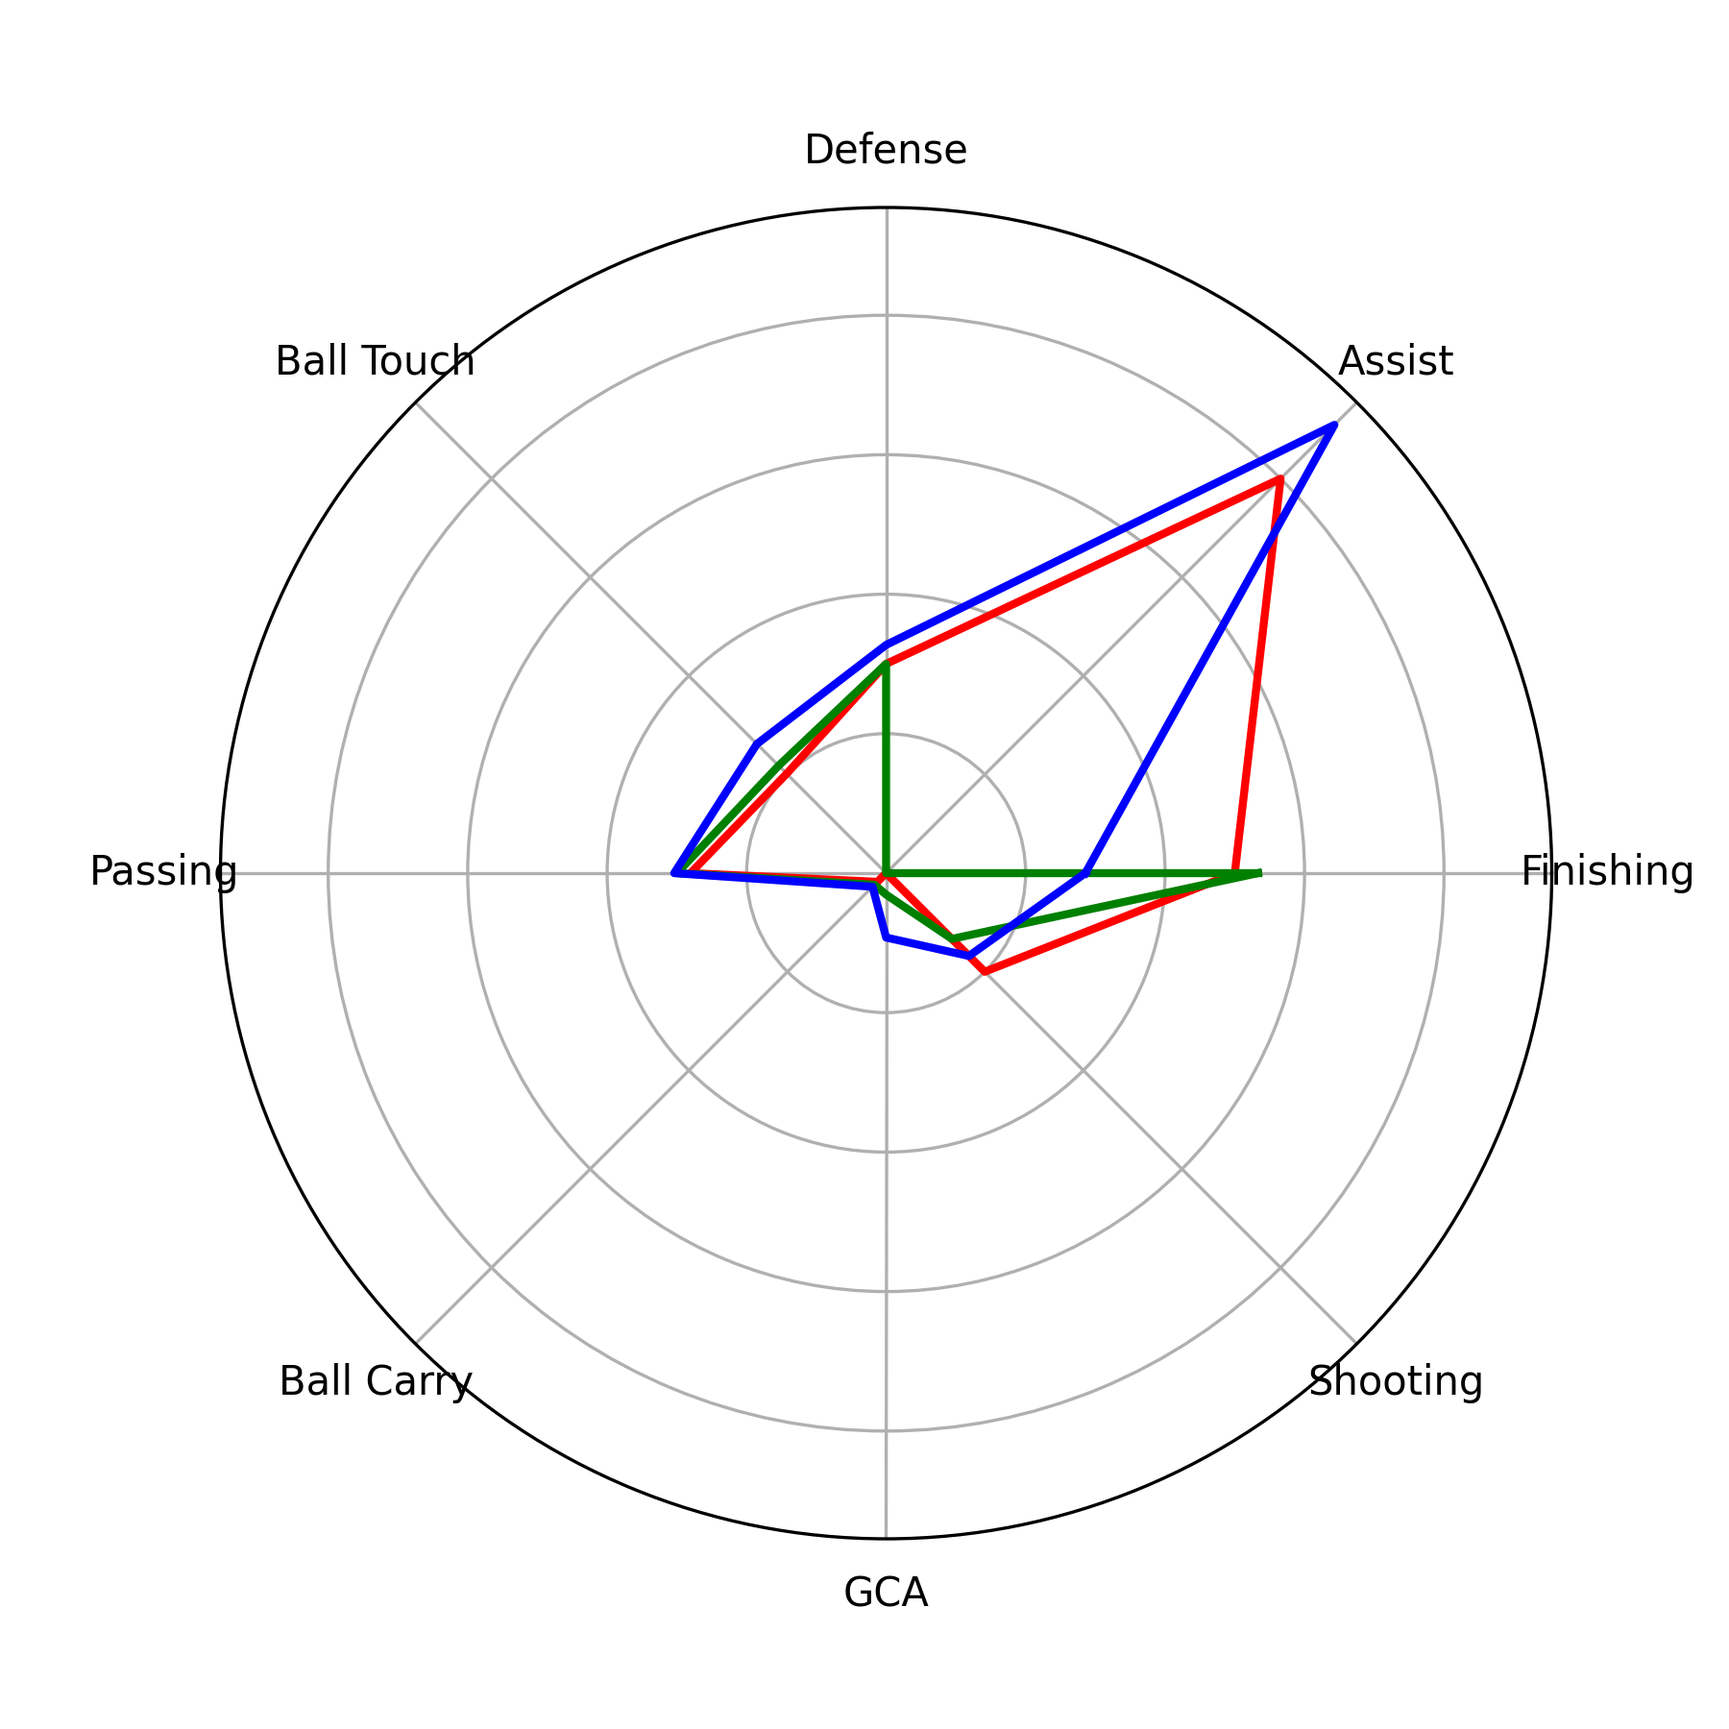
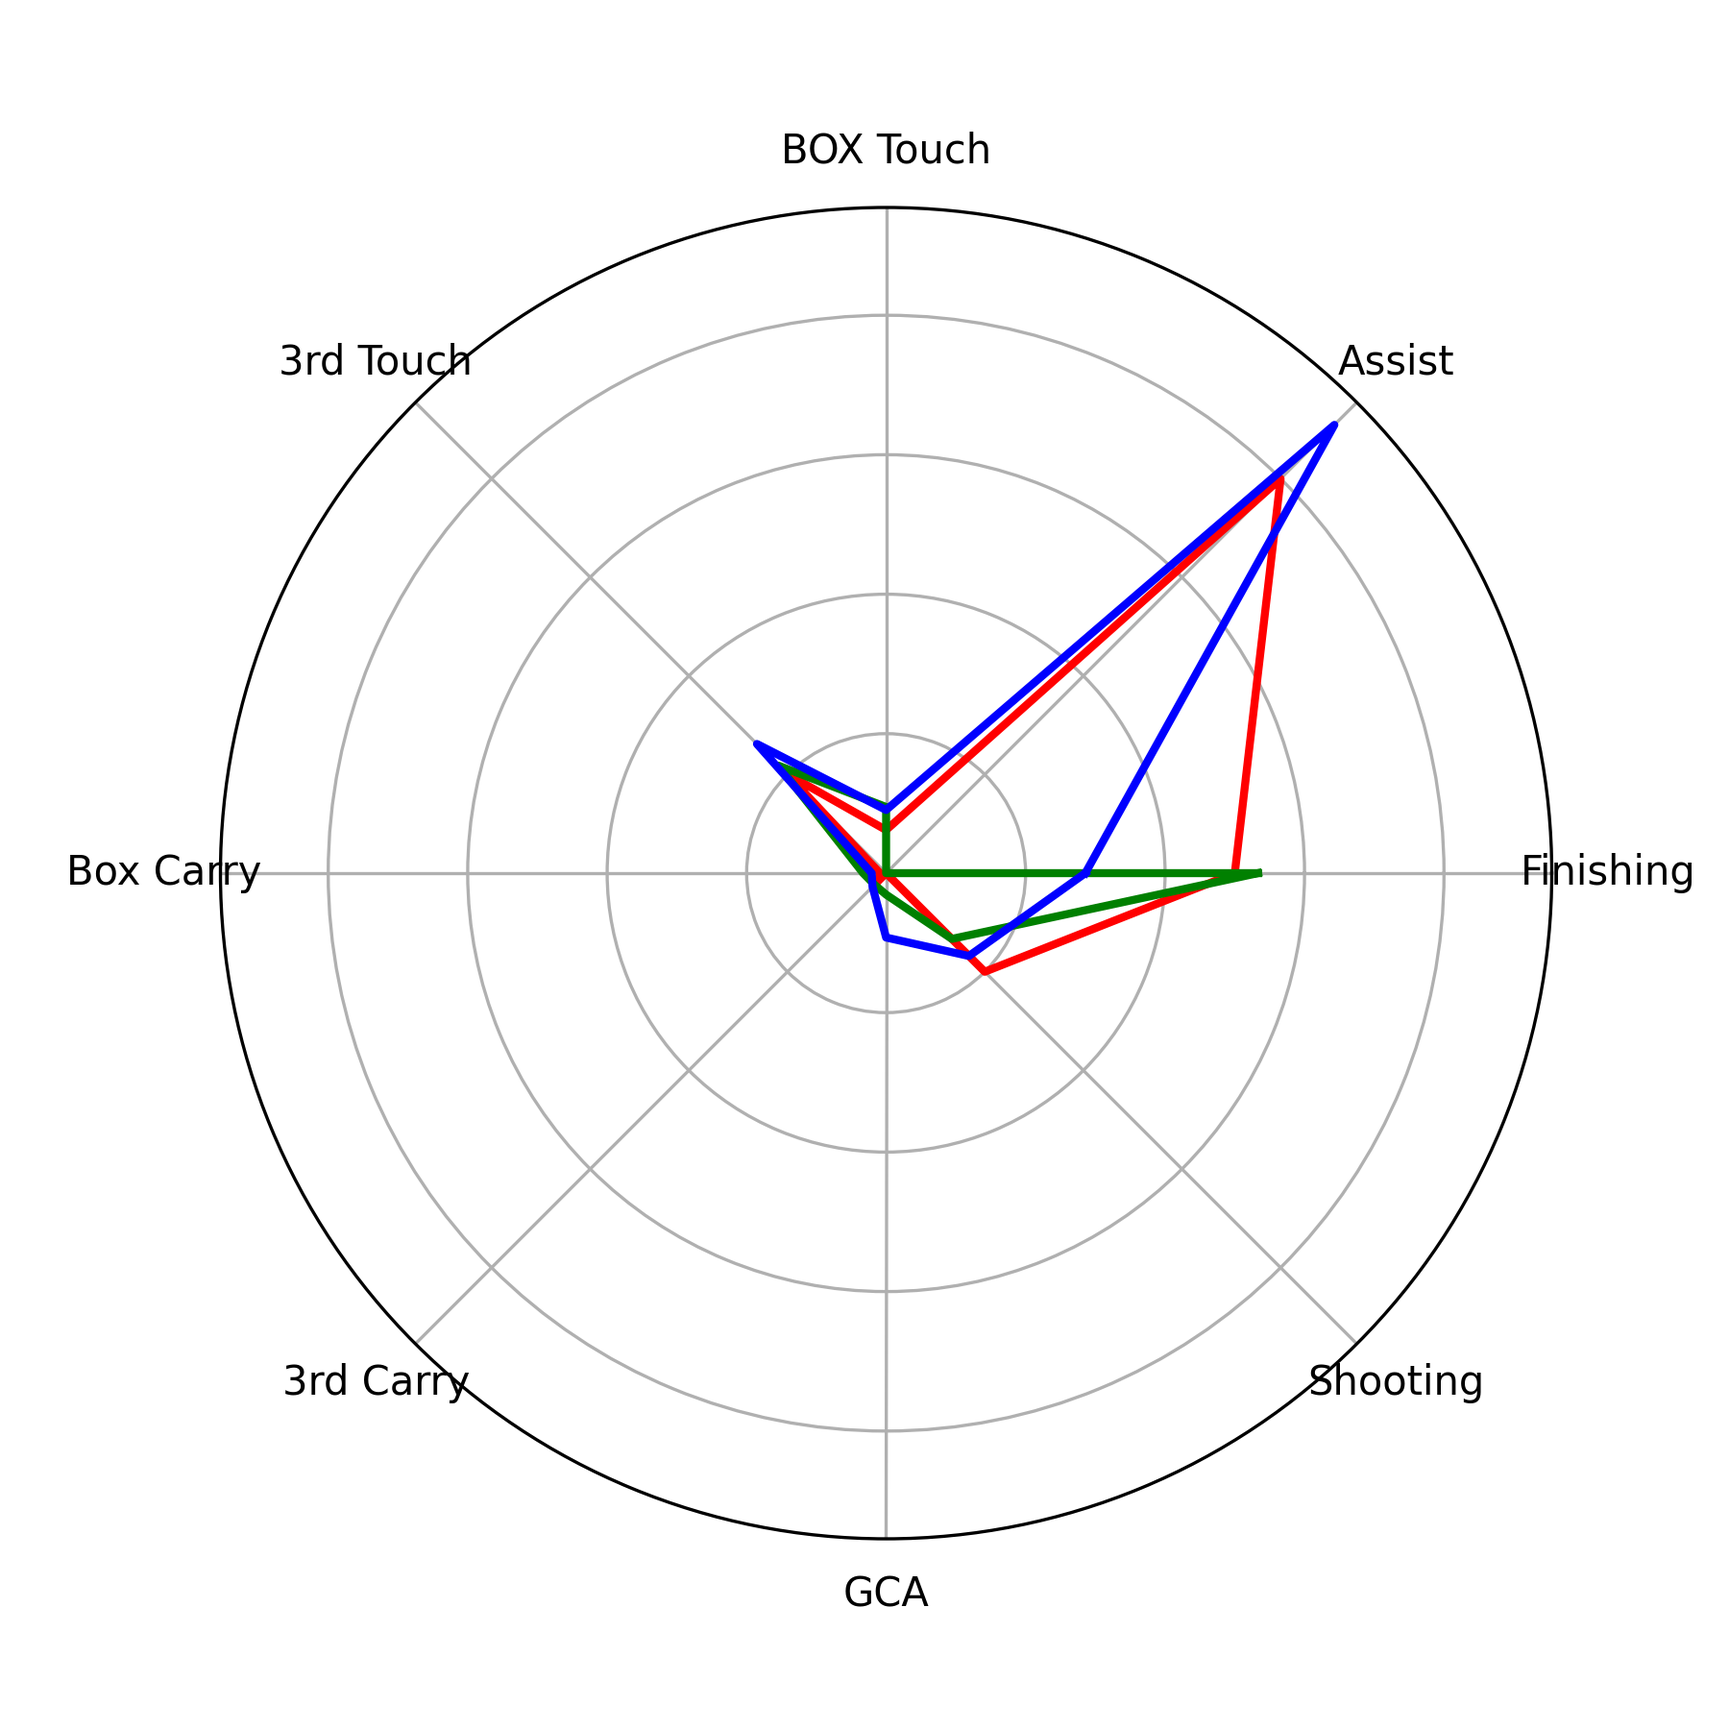
폴더 및 경로 정리

diff --git a/VS_fw_player/fw_player_vs_radar.py b/VS_fw_player/fw_player_vs_radar.py
@@ -10,26 +10,26 @@ def dataget(url):
 def append_data(value, data):
     value.append((data['Performance Gls'].sum() / (data['Min'].sum() / 90)) / (data['Expected xG'].sum() / (data['Min'].sum() / 90)) if data['Expected xG'].sum() != 0 else 0.0)
     value.append((data['Performance Ast'].sum() / (data['Min'].sum() / 90)) / (data['Expected xAG'].sum() / (data['Min'].sum() / 90)) if data['Expected xAG'].sum() != 0 else 0.0)
-    value.append((data['CrsPA'].sum() / (data['Min'].sum() / 90)) / (data['Pass Types Crs'].sum() / (data['Min'].sum() / 90)) if data['Pass Types Crs'].sum() != 0 else 0.0)
-    value.append((data['Take-Ons Succ'].sum() / (data['Min'].sum() / 90)) / (data['Take-Ons Att'].sum() / (data['Min'].sum() / 90)) if data['Take-Ons Att'].sum() != 0 else 0.0)
+    value.append((data['Touches Att Pen'].sum() / (data['Min'].sum() / 90)) / (data['Touches Touches'].sum() / (data['Min'].sum() / 90)) if data['Touches Touches'].sum() != 0 else 0.0)
+    value.append((data['Touches Att 3rd'].sum() / (data['Min'].sum() / 90)) / (data['Touches Touches'].sum() / (data['Min'].sum() / 90)) if data['Touches Touches'].sum() != 0 else 0.0)
     value.append((data['Carries CPA'].sum() / (data['Min'].sum() / 90)) / (data['Carries Carries'].sum() / (data['Min'].sum() / 90)) if data['Carries Carries'].sum() != 0 else 0.0)
-    value.append((data['Carries 1/3'].sum() / (data['Min'].sum() / 90)) / (data['Carries Carries'].sum() / (data['Min'].sum() / 90)) if data['Carries Carries'].sum() != 0 else 0.0)
+    value.append((data['Carries Fin 3rd'].sum() / (data['Min'].sum() / 90)) / (data['Carries Carries'].sum() / (data['Min'].sum() / 90)) if data['Carries Carries'].sum() != 0 else 0.0)
     value.append((data['SCA GCA'].sum() / (data['Min'].sum() / 90)) / (data['SCA SCA'].sum() / (data['Min'].sum() / 90)) if data['SCA SCA'].sum() != 0 else 0.0)
-    value.append((data['PPA'].sum() / (data['Min'].sum() / 90)) / (data['Passes Cmp'].sum() / (data['Min'].sum() / 90)) if data['Passes Cmp'].sum() != 0 else 0.0)
+    value.append((data['Performance SoT'].sum() / (data['Min'].sum() / 90)) / (data['Performance Sh'].sum() / (data['Min'].sum() / 90)) if data['Performance Sh'].sum() != 0 else 0.0)
 
 def fw_radar(player1, player2, player3):
-    categories = ['Finishing', 'Assist', 'Crros into PA', 'Dribble', 'Box Carry', '3rd Carry', 'GCA', 'Pass into PA']
+    categories = ['Finishing', 'Assist', 'BOX Touch', '3rd Touch', 'Box Carry', '3rd Carry', 'GCA', 'Shooting']
     cody_value = []
     diogo_value = []
-    luis_value= []
+    darwin_value= []
     # 각 포지션을 포함하는 행만 선택
-    cody_data = player1[player1['Pos'].str.contains('LW')]
-    diogo_data = player2[player2['Pos'].str.contains('LW')]
-    luis_data = player3[player3['Pos'].str.contains('LW')]
+    cody_data = player1[player1['Pos'].str.contains('FW')]
+    diogo_data = player2[player2['Pos'].str.contains('FW')]
+    darwin_data = player3[player3['Pos'].str.contains('FW')]
     
     append_data(cody_value, cody_data)
     append_data(diogo_value, diogo_data)
-    append_data(luis_value, luis_data)
+    append_data(darwin_value, darwin_data)
     
     # 각도 계산
     num_vars = len(categories)
@@ -38,14 +38,14 @@ def fw_radar(player1, player2, player3):
     # 첫 번째 요소를 마지막으로 복사하여 폐곡선 만들기
     cody_value += cody_value[:1]
     diogo_value += diogo_value[:1]
-    luis_value += luis_value[:1]
+    darwin_value += darwin_value[:1]
     angles += angles[:1]
 
     # 그래프 설정
     fig, ax = plt.subplots(figsize=(6, 6), subplot_kw=dict(polar=True))
     ax.plot(angles, cody_value, color='red', linestyle='solid', linewidth=2)
     ax.plot(angles, diogo_value, color='green', linestyle='solid', linewidth=2)
-    ax.plot(angles, luis_value, color='blue', linestyle='solid', linewidth=2)
+    ax.plot(angles, darwin_value, color='blue', linestyle='solid', linewidth=2)
 
     # 카테고리 레이블 추가
     ax.set_thetagrids(np.degrees(angles[:-1]), categories)
@@ -55,14 +55,14 @@ def fw_radar(player1, player2, player3):
     ax.set_rlabel_position(180)
 
     # 그래프 표시
-    plt.savefig('VS_lw_player/vs_lw_radar.png',dpi=300)
+    plt.savefig('VS_fw_player/vs_fw_radar.png',dpi=300)
     plt.show()
     
     print(cody_value)
     print(diogo_value)
-    print(luis_value)
+    print(darwin_value)
 
-cody_gakpo_data=dataget('Cody-Gakpo/Cody-Gakpo_merged.csv')
-diogo_jota_data=dataget('Diogo-Jota/Diogo-Jota_merged.csv')
-luis_diaz_data=dataget('Luis-Diaz/Luis-Diaz_merged.csv')
-fw_radar(cody_gakpo_data, diogo_jota_data, luis_diaz_data) #비교 스텟 바꿔가면서 반복
+cody_gakpo_data=dataget('csv/Cody-Gakpo/Cody-Gakpo_merged.csv')
+diogo_jota_data=dataget('csv/Diogo-Jota/Diogo-Jota_merged.csv')
+darwin_nunez_data=dataget('csv/Darwin-Nunez/Darwin-Nunez_merged.csv')
+fw_radar(cody_gakpo_data, diogo_jota_data, darwin_nunez_data) #비교 스텟 바꿔가면서 반복

diff --git a/VS_lw_player/lw_player_vs_radar.py b/VS_lw_player/lw_player_vs_radar.py
@@ -10,26 +10,26 @@ def dataget(url):
 def append_data(value, data):
     value.append((data['Performance Gls'].sum() / (data['Min'].sum() / 90)) / (data['Expected xG'].sum() / (data['Min'].sum() / 90)) if data['Expected xG'].sum() != 0 else 0.0)
     value.append((data['Performance Ast'].sum() / (data['Min'].sum() / 90)) / (data['Expected xAG'].sum() / (data['Min'].sum() / 90)) if data['Expected xAG'].sum() != 0 else 0.0)
-    value.append((data['Touches Att Pen'].sum() / (data['Min'].sum() / 90)) / (data['Touches Touches'].sum() / (data['Min'].sum() / 90)) if data['Touches Touches'].sum() != 0 else 0.0)
-    value.append((data['Touches Att 3rd'].sum() / (data['Min'].sum() / 90)) / (data['Touches Touches'].sum() / (data['Min'].sum() / 90)) if data['Touches Touches'].sum() != 0 else 0.0)
+    value.append((data['CrsPA'].sum() / (data['Min'].sum() / 90)) / (data['Pass Types Crs'].sum() / (data['Min'].sum() / 90)) if data['Pass Types Crs'].sum() != 0 else 0.0)
+    value.append((data['Take-Ons Succ'].sum() / (data['Min'].sum() / 90)) / (data['Take-Ons Att'].sum() / (data['Min'].sum() / 90)) if data['Take-Ons Att'].sum() != 0 else 0.0)
     value.append((data['Carries CPA'].sum() / (data['Min'].sum() / 90)) / (data['Carries Carries'].sum() / (data['Min'].sum() / 90)) if data['Carries Carries'].sum() != 0 else 0.0)
-    value.append((data['Carries 1/3'].sum() / (data['Min'].sum() / 90)) / (data['Carries Carries'].sum() / (data['Min'].sum() / 90)) if data['Carries Carries'].sum() != 0 else 0.0)
+    value.append((data['Carries Fin 3rd'].sum() / (data['Min'].sum() / 90)) / (data['Carries Carries'].sum() / (data['Min'].sum() / 90)) if data['Carries Carries'].sum() != 0 else 0.0)
     value.append((data['SCA GCA'].sum() / (data['Min'].sum() / 90)) / (data['SCA SCA'].sum() / (data['Min'].sum() / 90)) if data['SCA SCA'].sum() != 0 else 0.0)
-    value.append((data['Performance SoT'].sum() / (data['Min'].sum() / 90)) / (data['Performance Sh'].sum() / (data['Min'].sum() / 90)) if data['Performance Sh'].sum() != 0 else 0.0)
+    value.append((data['PPA'].sum() / (data['Min'].sum() / 90)) / (data['Passes Cmp'].sum() / (data['Min'].sum() / 90)) if data['Passes Cmp'].sum() != 0 else 0.0)
 
 def fw_radar(player1, player2, player3):
-    categories = ['Finishing', 'Assist', 'BOX Touch', '3rd Touch', 'Box Carry', '3rd Carry', 'GCA', 'Shooting']
+    categories = ['Finishing', 'Assist', 'Crros into PA', 'Dribble', 'Box Carry', '3rd Carry', 'GCA', 'Pass into PA']
     cody_value = []
     diogo_value = []
-    darwin_value= []
+    luis_value= []
     # 각 포지션을 포함하는 행만 선택
-    cody_data = player1[player1['Pos'].str.contains('FW')]
-    diogo_data = player2[player2['Pos'].str.contains('FW')]
-    darwin_data = player3[player3['Pos'].str.contains('FW')]
+    cody_data = player1[player1['Pos'].str.contains('LW')]
+    diogo_data = player2[player2['Pos'].str.contains('LW')]
+    luis_data = player3[player3['Pos'].str.contains('LW')]
     
     append_data(cody_value, cody_data)
     append_data(diogo_value, diogo_data)
-    append_data(darwin_value, darwin_data)
+    append_data(luis_value, luis_data)
     
     # 각도 계산
     num_vars = len(categories)
@@ -38,14 +38,14 @@ def fw_radar(player1, player2, player3):
     # 첫 번째 요소를 마지막으로 복사하여 폐곡선 만들기
     cody_value += cody_value[:1]
     diogo_value += diogo_value[:1]
-    darwin_value += darwin_value[:1]
+    luis_value += luis_value[:1]
     angles += angles[:1]
 
     # 그래프 설정
     fig, ax = plt.subplots(figsize=(6, 6), subplot_kw=dict(polar=True))
     ax.plot(angles, cody_value, color='red', linestyle='solid', linewidth=2)
     ax.plot(angles, diogo_value, color='green', linestyle='solid', linewidth=2)
-    ax.plot(angles, darwin_value, color='blue', linestyle='solid', linewidth=2)
+    ax.plot(angles, luis_value, color='blue', linestyle='solid', linewidth=2)
 
     # 카테고리 레이블 추가
     ax.set_thetagrids(np.degrees(angles[:-1]), categories)
@@ -55,14 +55,14 @@ def fw_radar(player1, player2, player3):
     ax.set_rlabel_position(180)
 
     # 그래프 표시
-    plt.savefig('VS_fw_player/vs_fw_radar.png',dpi=300)
+    plt.savefig('VS_lw_player/vs_lw_radar.png',dpi=300)
     plt.show()
     
     print(cody_value)
     print(diogo_value)
-    print(darwin_value)
+    print(luis_value)
 
-cody_gakpo_data=dataget('Cody-Gakpo/Cody-Gakpo_merged.csv')
-diogo_jota_data=dataget('Diogo-Jota/Diogo-Jota_merged.csv')
-darwin_nunez_data=dataget('Darwin-Nunez/Darwin-Nunez_merged.csv')
-fw_radar(cody_gakpo_data, diogo_jota_data, darwin_nunez_data) #비교 스텟 바꿔가면서 반복
+cody_gakpo_data=dataget('csv/Cody-Gakpo/Cody-Gakpo_merged.csv')
+diogo_jota_data=dataget('csv/Diogo-Jota/Diogo-Jota_merged.csv')
+luis_diaz_data=dataget('csv/Luis-Diaz/Luis-Diaz_merged.csv')
+fw_radar(cody_gakpo_data, diogo_jota_data, luis_diaz_data) #비교 스텟 바꿔가면서 반복

diff --git a/csv/fbref_scraping.py b/csv/fbref_scraping.py
@@ -13,8 +13,8 @@ def process_match_logs(url_df, log_type):
         print("이름을 찾을 수 없습니다.")
     
     # 디렉토리 생성 (이미 존재하면 생성하지 않음)
-    if not os.path.exists(player_name):
-        os.makedirs(player_name)
+    if not os.path.exists(f'csv/{player_name}'):
+        os.makedirs(f'csv/{player_name}')
 
     # HTML 테이블 읽기
     dfs = pd.read_html(url_df)
@@ -37,14 +37,14 @@ def process_match_logs(url_df, log_type):
     df = df[df['Comp'] != 'EFL Cup']
 
     # DataFrame을 CSV 파일로 저장
-    df.to_csv(f'{player_name}/{player_name}_{log_type.lower()}.csv', index=False)
+    df.to_csv(f'csv/{player_name}/{player_name}_{log_type.lower()}.csv', index=False)
     
 def merged_csv(player):
-    df1 = pd.read_csv(f'{player}/{player}_summary.csv')
-    df2 = pd.read_csv(f'{player}/{player}_possession.csv')
-    df3 = pd.read_csv(f'{player}/{player}_defense.csv')
-    df4 = pd.read_csv(f'{player}/{player}_passing.csv')
-    df5 = pd.read_csv(f'{player}/{player}_passing_types.csv')
+    df1 = pd.read_csv(f'csv/{player}/{player}_summary.csv')
+    df2 = pd.read_csv(f'csv/{player}/{player}_possession.csv')
+    df3 = pd.read_csv(f'csv/{player}/{player}_defense.csv')
+    df4 = pd.read_csv(f'csv/{player}/{player}_passing.csv')
+    df5 = pd.read_csv(f'csv/{player}/{player}_passing_types.csv')
     
     df2 = df2.rename(columns={'Carries 1/3': 'Carries Fin 3rd'})
     df4 = df4.rename(columns={'1/3': 'Passes Fin 3rd'})
@@ -64,11 +64,11 @@ def merged_csv(player):
     # merged_df = pd.concat([merged_df, df4], ignore_index=True)
 
     # 합친 데이터프레임을 CSV 파일로 저장
-    merged_df.to_csv(f'{player}/{player}_merged.csv', index=False)
+    merged_df.to_csv(f'csv/{player}/{player}_merged.csv', index=False)
 
 # 선수 이름 바꾸면서 스크래핑
 player_name = 'Cody-Gakpo' 
-player_id = 'b8e740fb'
+player_id = '1971591f'
 url_possession = f'https://fbref.com/en/players/{player_id}/matchlogs/2023-2024/possession/{player_name}-Match-Logs'
 process_match_logs(url_possession, 'Possession')
 

diff --git a/VS_mid_player/mid_player_vs_scatter.py b/VS_mid_player/mid_player_vs_scatter.py
@@ -35,9 +35,9 @@ def fw_player_scatter(player1, player2, player3, player4, player5, stat1, stat2)
     plt.savefig('VS_mid_player/'+stat2+'&'+stat1+'.png',dpi=300)
     plt.show()
 
-cody_gakpo_data=dataget('Cody-Gakpo/Cody-Gakpo_merged.csv')
-curtis_jones_data=dataget('Curtis-Jones/Curtis-Jones_merged.csv')
-dominik_szboszlai_data=dataget('Dominik-Szoboszlai/Dominik-Szoboszlai_merged.csv')
-harvey_elliott_data=dataget('Harvey-Elliott/Harvey-Elliott_merged.csv')
-ryan_Gravenberch_data=dataget('Ryan-Gravenberch/Ryan-Gravenberch_merged.csv')
+cody_gakpo_data=dataget('csv/Cody-Gakpo/Cody-Gakpo_merged.csv')
+curtis_jones_data=dataget('csv/Curtis-Jones/Curtis-Jones_merged.csv')
+dominik_szboszlai_data=dataget('csv/Dominik-Szoboszlai/Dominik-Szoboszlai_merged.csv')
+harvey_elliott_data=dataget('csv/Harvey-Elliott/Harvey-Elliott_merged.csv')
+ryan_Gravenberch_data=dataget('csv/Ryan-Gravenberch/Ryan-Gravenberch_merged.csv')
 fw_player_scatter(cody_gakpo_data, curtis_jones_data, dominik_szboszlai_data, harvey_elliott_data, ryan_Gravenberch_data, 'Min', 'Tackles Mid 3rd') #비교 스텟 바꿔가면서 반복

diff --git a/VS_mid_player/mid_player_vs_radar.py b/VS_mid_player/mid_player_vs_radar.py
@@ -75,10 +75,10 @@ def fw_radar(player1, player2, player3, player4, player5):
     plt.show()
     
 
-cody_gakpo_data=dataget('Cody-Gakpo/Cody-Gakpo_merged.csv')
-curtis_jones_data=dataget('Diogo-Jota/Diogo-Jota_merged.csv')
-dominik_szoboszlai_data=dataget('Dominik-Szoboszlai/Dominik-Szoboszlai_merged.csv')
-harvey_elliott_data=dataget('Harvey-Elliott/Harvey-Elliott_merged.csv')
-ryan_Gravenberch_data=dataget('Ryan-Gravenberch/Ryan-Gravenberch_merged.csv')
+cody_gakpo_data=dataget('csv/Cody-Gakpo/Cody-Gakpo_merged.csv')
+curtis_jones_data=dataget('csv/Diogo-Jota/Diogo-Jota_merged.csv')
+dominik_szoboszlai_data=dataget('csv/Dominik-Szoboszlai/Dominik-Szoboszlai_merged.csv')
+harvey_elliott_data=dataget('csv/Harvey-Elliott/Harvey-Elliott_merged.csv')
+ryan_Gravenberch_data=dataget('csv/Ryan-Gravenberch/Ryan-Gravenberch_merged.csv')
 
 fw_radar(cody_gakpo_data, curtis_jones_data, dominik_szoboszlai_data, harvey_elliott_data, ryan_Gravenberch_data)

diff --git a/VS_fw_player/fw_player_vs_scatter.py b/VS_fw_player/fw_player_vs_scatter.py
@@ -30,7 +30,7 @@ def fw_player_scatter(player1, player2, player3, stat1, stat2):
     plt.savefig('VS_fw_player/'+stat2+'&'+stat1+'.png',dpi=300)
     plt.show()
 
-cody_gakpo_data=dataget('Cody-Gakpo/Cody-Gakpo_merged.csv')
-diogo_jota_data=dataget('Diogo-Jota/Diogo-Jota_merged.csv')
-darwin_nunez_data=dataget('Darwin-Nunez/Darwin-Nunez_merged.csv')
+cody_gakpo_data=dataget('csv/Cody-Gakpo/Cody-Gakpo_merged.csv')
+diogo_jota_data=dataget('csv/Diogo-Jota/Diogo-Jota_merged.csv')
+darwin_nunez_data=dataget('csv/Darwin-Nunez/Darwin-Nunez_merged.csv')
 fw_player_scatter(cody_gakpo_data, diogo_jota_data, darwin_nunez_data, 'Min', 'Performance Gls') #비교 스텟 바꿔가면서 반복

diff --git a/VS_lw_player/lw_player_vs_scatter.py b/VS_lw_player/lw_player_vs_scatter.py
@@ -30,7 +30,7 @@ def lw_player_scatter(player1, player2, player3, stat1, stat2):
     plt.savefig('VS_lw_player/'+stat2+'&'+stat1+'.png',dpi=300)
     plt.show()
 
-cody_gakpo_data=dataget('Cody-Gakpo/Cody-Gakpo_merged.csv')
-diogo_jota_data=dataget('Diogo-Jota/Diogo-Jota_merged.csv')
-luis_diaz_data=dataget('Luis-Diaz/Luis-Diaz_merged.csv')
+cody_gakpo_data=dataget('csv/Cody-Gakpo/Cody-Gakpo_merged.csv')
+diogo_jota_data=dataget('csv/Diogo-Jota/Diogo-Jota_merged.csv')
+luis_diaz_data=dataget('csv/Luis-Diaz/Luis-Diaz_merged.csv')
 lw_player_scatter(cody_gakpo_data, diogo_jota_data, luis_diaz_data, 'Min', 'Passes Fin 3rd') #비교 스텟 바꿔가면서 반복

diff --git a/VS_Position/pos_vs_scatter.py b/VS_Position/pos_vs_scatter.py
@@ -30,5 +30,5 @@ def pos(data, stat1, stat2):
     plt.savefig('VS_Position/'+stat2+'&'+stat1+'.png',dpi=300)
     plt.show()
 
-data=dataget('Cody-Gakpo/Cody-Gakpo_merged.csv')
+data=dataget('csv/Cody-Gakpo/Cody-Gakpo_merged.csv')
 pos(data,'Carries Carries', 'Carries PrgC') #비교 스텟 바꿔가면서 반복

diff --git a/VS_Position/pos_vs_radar.py b/VS_Position/pos_vs_radar.py
@@ -61,6 +61,6 @@ def pos_radar(data):
     print(mid_value)
     print(lw_value)
 
-summary_data=dataget('Cody-Gakpo/Cody-Gakpo_summary.csv')
+data=dataget('csv/Cody-Gakpo/Cody-Gakpo_merged.csv')
 
-pos_radar(summary_data)
+pos_radar(data)
